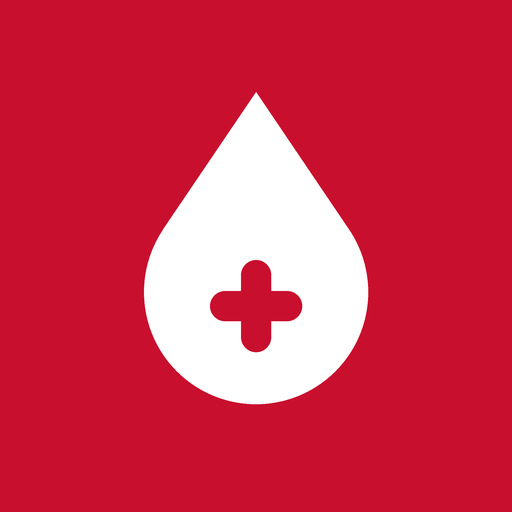
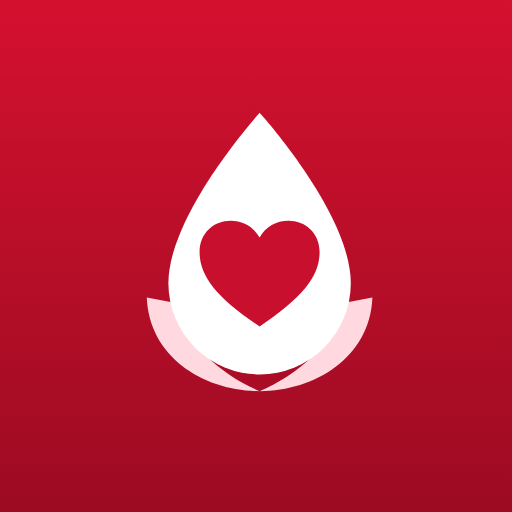
Add files via upload

diff --git a/privacy.html b/privacy.html
@@ -1,0 +1,64 @@
+<!DOCTYPE html>
+<html lang="bn"><head><meta charset="utf-8"><meta name="viewport" content="width=device-width, initial-scale=1">
+<title>গোপনীয়তা নীতি | রক্তবন্ধু বাংলাদেশ</title>
+<link rel="icon" href="icon.png">
+<link rel="stylesheet" href="https://fonts.googleapis.com/css2?family=Hind+Siliguri:wght@400;600;700&display=swap">
+<style>
+:root{--bg:#f6faf7;--cd:#fff;--tx:#17251e;--mu:#5d6f66;--rd:#c8102e;--ln:#dbe6df}
+@media (prefers-color-scheme:dark){:root{--bg:#0f1a15;--cd:#18261f;--tx:#eaf3ee;--mu:#9bb0a5;--rd:#ff7389;--ln:#2b3d34}}
+*{box-sizing:border-box}body{margin:0;background:var(--bg);color:var(--tx);font:17px/1.7 "Hind Siliguri","Noto Sans Bengali",sans-serif}
+main{max-width:760px;margin:0 auto;padding:20px 18px 60px}
+.hd{display:flex;align-items:center;gap:10px;color:var(--rd);font-weight:700;font-size:22px}.hd svg{width:38px;height:38px}
+h1{font-size:30px;line-height:1.3;margin:18px 0 4px}h2{font-size:21px;margin:30px 0 6px;color:var(--rd)}
+p,li{color:var(--tx)}.mu{color:var(--mu)}ul{padding-left:22px}li{margin:4px 0}
+.box{background:var(--cd);border:1px solid var(--ln);border-radius:14px;padding:6px 16px;margin:12px 0}
+a{color:var(--rd)}
+</style></head><body><main>
+<div class="hd"><svg viewBox="0 0 256 256" aria-hidden="true"><defs><linearGradient id="lgg" x1="0" y1="0" x2="0" y2="1"><stop offset="0" stop-color="#ef2a4a"/><stop offset="1" stop-color="#a30b24"/></linearGradient></defs><path d="M34 168C36 218 82 246 128 246C96 232 68 208 56 172Z" fill="#c8102e"/><path d="M222 168C220 218 174 246 128 246C160 232 188 208 200 172Z" fill="#c8102e"/><path d="M128 14C128 14 52 98 52 156a76 76 0 0 0 152 0C204 98 128 14 128 14Z" fill="url(#lgg)"/><path d="M128 192C92 168 78 150 78 130C78 114 90 104 104 104C114 104 123 109 128 118C133 109 142 104 152 104C166 104 178 114 178 130C178 150 164 168 128 192Z" fill="#fff"/></svg><span>রক্তবন্ধু বাংলাদেশ</span></div>
+<h1>গোপনীয়তা নীতি</h1>
+<p class="mu">সর্বশেষ হালনাগাদ: অক্টোবর ২০২৬</p>
+<p>রক্তবন্ধু বাংলাদেশ একটি বিনামূল্যের ওয়েব অ্যাপ, যেখানে রক্তদাতা খোঁজা, নিজে রক্তদাতা হিসেবে নিবন্ধন করা আর জরুরি রক্তের অনুরোধ জানানো যায়। এখানে লেখা আছে আমরা কোন তথ্য নিই, কে কী দেখতে পায় আর আপনি কীভাবে নিজের তথ্য নিয়ন্ত্রণ করবেন। আমরা বিজ্ঞাপন দেখাই না এবং আপনার তথ্য বিক্রি করি না।</p>
+
+<h2>১. আমরা কোন তথ্য নিই</h2>
+<div class="box"><ul>
+<li><b>প্রবেশের তথ্য:</b> গুগল বা ফেসবুক দিয়ে প্রবেশ করলে আপনার নাম, ইমেইল আর একটি ব্যবহারকারী আইডি আমাদের লগইন ব্যবস্থায় (Firebase Authentication) জমা থাকে। মোবাইল নম্বর দিয়ে প্রবেশ করলে নম্বরটি জমা থাকে। আপনার গুগল বা ফেসবুকের পাসওয়ার্ড আমরা কখনো পাই না।</li>
+<li><b>প্রোফাইলের তথ্য:</b> আপনার দেওয়া নাম, রক্তের গ্রুপ, বিভাগ-জেলা-উপজেলা, রক্ত দিতে ইচ্ছুক কি না, আর (আপনি চাইলে) প্রোফাইল ছবির লিংক।</li>
+<li><b>ফোন নম্বর:</b> আপনি নিবন্ধনের সময় দেন। এটা আলাদা সুরক্ষিত জায়গায় থাকে। নম্বর যাচাই করা হয় না।</li>
+<li><b>রক্তদানের তথ্য:</b> আপনার দেওয়া হাসপাতাল বা স্থানের নাম, জেলা আর তারিখ। শেষ রক্ত দেওয়ার সঠিক তারিখও এর অংশ।</li>
+<li><b>জরুরি অনুরোধ:</b> আপনি পোস্ট করলে রক্তের গ্রুপ, ব্যাগের সংখ্যা, হাসপাতাল, এলাকা, কবে লাগবে, যোগাযোগকারীর নাম ও নম্বর।</li>
+<li><b>যোগাযোগের অনুরোধ ও রিপোর্ট:</b> কেউ কাউকে যোগাযোগের অনুরোধ পাঠালে বা কোনো প্রোফাইল রিপোর্ট করলে সেই তথ্য।</li>
+</ul></div>
+<p class="mu">আমরা আপনার ডিভাইসের সঠিক অবস্থান (GPS) জমা রাখি না। মানচিত্রে এলাকার নাম লিখে খুঁজলে সেই নামটি মানচিত্র সেবায় (OpenStreetMap) যায়।</p>
+
+<h2>২. কে কী দেখতে পায়</h2>
+<div class="box"><ul>
+<li><b>শুধু প্রবেশ করা ব্যবহারকারীরা</b> দাতার তালিকা দেখতে পান: নাম, রক্তের গ্রুপ, উপজেলা ও জেলা, রক্ত দিতে প্রস্তুত কি না, মোট রক্তদানের সংখ্যা আর দানস্থলের সংখ্যা। আপনি অনুমতি দিলে ছবিও দেখা যায়।</li>
+<li><b>ফোন নম্বর:</b> আপনি সেটিংয়ে "প্রবেশ করা সবাইকে নম্বর দেখান" চালু করলে প্রবেশ করা সবাই দেখতে পায়। বন্ধ থাকলে কেউ অনুরোধ পাঠালে আপনি অনুমতি দিলে তবেই ওই ব্যক্তি দেখে।</li>
+<li><b>শেষ রক্ত দেওয়ার তারিখ:</b> সঠিক তারিখ শুধু আপনি দেখেন। অন্যরা শুধু আনুমানিক "আর কত দিন পর প্রস্তুত" দেখে।</li>
+<li><b>হাসপাতালের নাম ও রক্তদানের তারিখ:</b> শুধু আপনি দেখেন (আর প্রয়োজনে অ্যাডমিন)।</li>
+<li><b>জরুরি অনুরোধ:</b> পোস্টের সময় সম্মতি দিলে অনুরোধ, নাম ও নম্বরসহ প্রবেশ ছাড়াও সবাই দেখতে পায়।</li>
+<li><b>ইমেইল:</b> শুধু আপনি আর অ্যাডমিন দেখেন।</li>
+</ul></div>
+
+<h2>৩. কীভাবে ব্যবহার করি</h2>
+<ul><li>দাতা খোঁজা ও জরুরি অনুরোধ মেলাতে।</li><li>আপনার অনুমতি অনুযায়ী যোগাযোগের অনুরোধ দেখাতে ও নম্বর শেয়ার করতে।</li><li>ভুয়া বা সন্দেহজনক প্রোফাইল যাচাই করে প্রয়োজনে বন্ধ করতে।</li></ul>
+
+<h2>৪. বাইরের সেবা</h2>
+<p>অ্যাপ চালাতে আমরা এই সেবাগুলো ব্যবহার করি। এদের মাধ্যমে আপনার IP ঠিকানা বা ডিভাইসের সাধারণ তথ্য ওই সেবাগুলোর কাছে যেতে পারে।</p>
+<ul><li>Google Firebase: লগইন ও ডাটাবেস।</li><li>Google ও Facebook: প্রবেশের জন্য (আপনি বেছে নিলে)।</li><li>OpenStreetMap: মানচিত্র, হাসপাতাল ও ব্লাড ব্যাংক খোঁজা।</li><li>Google Fonts ও cdnjs: অক্ষর ও মানচিত্রের কোড।</li></ul>
+
+<h2 id="deletion">৫. আপনার তথ্য নিয়ন্ত্রণ ও মুছে ফেলা</h2>
+<ul><li>নিজের তথ্য বদলাতে: <b>প্রোফাইল → প্রোফাইল সম্পাদনা</b>।</li><li>নম্বর বা প্রোফাইল লুকাতে: <b>প্রোফাইল → নিরাপত্তা ও গোপনীয়তা</b>।</li><li>সব তথ্য মুছতে: <b>প্রোফাইল → অ্যাকাউন্ট মুছে ফেলা</b>। এতে আপনার প্রোফাইল, ফোন নম্বর, রক্তদানের তালিকা আর লগইনের রেকর্ড মুছে যায় এবং ফেরত আনা যায় না।</li><li>আপনার পোস্ট করা জরুরি অনুরোধ "পূরণ হয়েছে" চেপে বন্ধ করলে সেটা আর তালিকায় দেখা যায় না।</li><li>ফেসবুক দিয়ে প্রবেশ করে থাকলে চাইলে ফেসবুকের <b>সেটিংস → অ্যাপস ও ওয়েবসাইট</b> থেকে রক্তবন্ধুকে সরিয়ে দিতে পারেন। অ্যাপে প্রবেশ করতে না পারলে "সহায়তা ও রিপোর্ট" পাতার মাধ্যমে জানান।</li></ul>
+
+<h2>৬. নিরাপত্তা ও সীমা</h2>
+<ul><li>কোনো অনলাইন ব্যবস্থাই শতভাগ নিরাপদ নয়। আমরা ডাটাবেসের নিয়ম দিয়ে অন্যের তথ্য দেখা আর বদলানো আটকে রাখি, কিন্তু ঝুঁকি পুরোপুরি শূন্য হয় না।</li><li>নিবন্ধনের সময় দেওয়া নম্বর যাচাই করা হয় না। তাই অন্য কারো নম্বর দেবেন না।</li><li>রক্তের জন্য কেউ টাকা চাইলে দেবেন না এবং ওই প্রোফাইল রিপোর্ট করুন।</li><li>এই অ্যাপ চিকিৎসা সেবা বা হাসপাতাল, ব্লাড ব্যাংকের বিকল্প নয়। জরুরিতে আগে হাসপাতাল বা ব্লাড ব্যাংকে যোগাযোগ করুন। হাসপাতাল ও ব্লাড ব্যাংকের তথ্য খোলা মানচিত্র থেকে আসে, ভুল বা পুরনো হতে পারে।</li></ul>
+
+<h2>৭. বয়স</h2>
+<p>রক্তদাতা হিসেবে নিবন্ধনের জন্য আপনার বয়স কমপক্ষে ১৮ বছর হতে হবে।</p>
+
+<h2>৮. নীতি বদলালে</h2>
+<p>এই নীতি বদলালে এই পাতায় নতুন তারিখসহ জানানো হবে।</p>
+
+<h2>৯. যোগাযোগ</h2>
+<p>প্রশ্ন বা অভিযোগ থাকলে অ্যাপের <b>প্রোফাইল → সহায়তা ও রিপোর্ট</b> পাতা দেখুন।</p>
+</main></body></html>

diff --git a/index.html b/index.html
@@ -84,7 +84,7 @@ ul{margin:6px 0;padding-left:20px}
 <body>
 <div class="w">
 <header class="hd"><button id="bk" class="sm" data-act="bk" hidden>← ফিরুন</button>
-<div class="lg"><svg viewBox="0 0 32 32" aria-hidden="true"><path d="M16 2C16 2 6 14 6 20a10 10 0 0020 0C26 14 16 2 16 2z" fill="var(--rd)"/><path d="M16 14v8M12 18h8" stroke="#fff" stroke-width="2.4" stroke-linecap="round"/></svg><span>রক্তবন্ধু বাংলাদেশ</span></div>
+<div class="lg"><svg viewBox="0 0 256 256" aria-hidden="true"><defs><linearGradient id="lgg" x1="0" y1="0" x2="0" y2="1"><stop offset="0" stop-color="#ef2a4a"/><stop offset="1" stop-color="#a30b24"/></linearGradient></defs><path d="M34 168C36 218 82 246 128 246C96 232 68 208 56 172Z" fill="#c8102e"/><path d="M222 168C220 218 174 246 128 246C160 232 188 208 200 172Z" fill="#c8102e"/><path d="M128 14C128 14 52 98 52 156a76 76 0 0 0 152 0C204 98 128 14 128 14Z" fill="url(#lgg)"/><path d="M128 192C92 168 78 150 78 130C78 114 90 104 104 104C114 104 123 109 128 118C133 109 142 104 152 104C166 104 178 114 178 130C178 150 164 168 128 192Z" fill="#fff"/></svg><span>রক্তবন্ধু বাংলাদেশ</span></div>
 <button id="hl" class="sm" data-go="login">প্রবেশ</button></header>
 <main id="app"></main>
 </div>
@@ -169,7 +169,7 @@ return`${x.ph?`<img src="${E(x.ph)}" alt="" referrerpolicy="no-referrer" style="
 ${x.demo?'<p class="note">এটি ডেমো প্রোফাইল, বাস্তব মানুষ নয়।</p>':''}${ct}
 <details class="box"><summary>এই প্রোফাইল রিপোর্ট করুন</summary><form id="f-rep" data-id="${x.id}"><label for="rr">কারণ</label><select id="rr" required>${o(WHY,'','বেছে নিন')}</select><label for="rt">বিস্তারিত (ঐচ্ছিক)</label><textarea id="rt"></textarea><button class="btn o" type="submit">রিপোর্ট পাঠান</button></form></details>`}
 const register=async()=>{if(!sess())return login(true);if(await DB.get('donors',sess()))return me();return`<h2>দাতা হিসেবে নিবন্ধন</h2><p class="mu">ফোন নম্বর ডিফল্টভাবে লুকানো থাকে, আপনি চাইলে নিচের টিক দিয়ে দেখাতে পারেন। নম্বর যাচাই করা হয় না, তাই সঠিক নম্বর দিন।</p><form id="f-reg">${pf({p:(auth.currentUser.phoneNumber||'').replace('+88','')})}<label class="ck"><input id="fsp" type="checkbox"> প্রবেশ করা সবাইকে আমার ফোন নম্বর দেখান (জরুরিতে সরাসরি কল পাবেন, পরে সেটিং থেকে বদলাতে পারবেন)</label><label class="ck"><input id="fc" type="checkbox" required> আমি জানি আমার গ্রুপ ও এলাকা (উপজেলা পর্যন্ত) সবার সার্চে দেখা যাবে।</label><button class="btn" type="submit">নিবন্ধন করুন</button></form>`};
-const login=async(reg)=>`<h2>${reg?'নতুন নিবন্ধন':'প্রবেশ করুন'}</h2><button class="btn big" data-act="google">Google দিয়ে চালিয়ে যান</button><button class="btn big" style="background:#1877f2" data-act="facebook">Facebook দিয়ে চালিয়ে যান</button><details class="box" style="margin-top:22px"><summary style="color:var(--mu);font-weight:400">মোবাইল নম্বর দিয়ে প্রবেশ (অ্যাডমিন)</summary><form id="f-login"><label for="lp">মোবাইল নম্বর</label><input id="lp" type="tel" inputmode="numeric" placeholder="01712345678" required><button class="btn" type="submit" id="lb">কোড পাঠান</button></form><form id="f-otp" hidden><label for="lo">SMS এ আসা ৬ সংখ্যার কোড</label><input id="lo" inputmode="numeric" maxlength="6" required><button class="btn" type="submit">যাচাই করুন</button></form></details><p class="note">প্রথমবার হলে প্রবেশের পর নিবন্ধনের ফর্ম আসবে। আপনার ফোন নম্বর কখনো সার্চে বা প্রোফাইলে প্রকাশ্য হয় না।</p>`;
+const login=async(reg)=>`<h2>${reg?'নতুন নিবন্ধন':'প্রবেশ করুন'}</h2><button class="btn big" data-act="google">Google দিয়ে চালিয়ে যান</button><button class="btn big" style="background:#1877f2" data-act="facebook">Facebook দিয়ে চালিয়ে যান</button><details class="box" style="margin-top:22px"><summary style="color:var(--mu);font-weight:400">মোবাইল নম্বর দিয়ে প্রবেশ (অ্যাডমিন)</summary><form id="f-login"><label for="lp">মোবাইল নম্বর</label><input id="lp" type="tel" inputmode="numeric" placeholder="01712345678" required><button class="btn" type="submit" id="lb">কোড পাঠান</button></form><form id="f-otp" hidden><label for="lo">SMS এ আসা ৬ সংখ্যার কোড</label><input id="lo" inputmode="numeric" maxlength="6" required><button class="btn" type="submit">যাচাই করুন</button></form></details><p class="note">প্রথমবার হলে প্রবেশের পর নিবন্ধনের ফর্ম আসবে। আপনার ফোন নম্বর আপনার অনুমতি ছাড়া কেউ দেখতে পায় না। <a href="privacy.html" target="_blank" rel="noopener" style="color:inherit">গোপনীয়তা নীতি</a></p>`;
 const request=async()=>{const me=sess(),A=await DB.all('requests'),L=A.filter(x=>x.open).sort((a,b)=>URG.indexOf(a.urg)-URG.indexOf(b.urg)||b.ts-a.ts);
 return`<h2>জরুরি রক্তের অনুরোধ</h2>
 <details class="box"><summary>নতুন অনুরোধ পোস্ট করুন</summary><form id="f-req"><div class="row"><div><label for="qg">রক্তের গ্রুপ</label><select id="qg" required>${o(G,'','বেছে নিন')}</select></div><div><label for="qb">কত ব্যাগ</label><input id="qb" type="number" min="1" max="20" value="1" required></div></div>${loc('q')}
@@ -198,7 +198,7 @@ async function pn(){const c=await ctx();if(!c)return register();const R=(await D
 return`<h2>নোটিফিকেশন</h2><div class="box"><h3>যোগাযোগের অনুরোধ</h3>${R.length?R.map(r=>`<div class="kv"><span>${E(r.fromName)}</span><span><button class="sm" data-act="share" data-id="${r.id}">নম্বর দিন</button> <button class="sm" data-act="deny" data-id="${r.id}">না</button></span></div>`).join(''):'<p class="mu">কোনো নতুন অনুরোধ নেই।</p>'}</div><p class="note">অ্যাপ বন্ধ থাকলে নোটিফিকেশন আসার ব্যবস্থা এখনো নেই। মাঝে মাঝে অ্যাপ খুলে এখানে দেখুন।</p>`}
 async function pd(){const c=await ctx();if(!c)return register();const DL=(await DB.q('donations','uid',c.u)).sort((a,b)=>b.dt.localeCompare(a.dt));
 return`<h2>আমার রক্তদানের তথ্য</h2><button class="btn g" data-act="card">প্রোফাইল কার্ড শেয়ার করুন</button>${donBox(c.x,DL)}`}
-const hlp=async()=>`<h2>সহায়তা ও রিপোর্ট</h2><div class="box"><h3>সন্দেহজনক প্রোফাইল</h3><p>কেউ টাকা চাইলে, বিরক্ত করলে বা ভুয়া তথ্য দিলে তার প্রোফাইল খুলে <b>এই প্রোফাইল রিপোর্ট করুন</b> চাপুন। অ্যাডমিন দেখবেন।</p></div><div class="box"><h3>নিরাপদে থাকতে</h3><ul><li>রক্তের জন্য কাউকে টাকা দেবেন না।</li><li>অচেনা কাউকে আপনার ঠিকানা বা ব্যক্তিগত তথ্য দেবেন না।</li><li>জরুরিতে আগে হাসপাতাল বা ব্লাড ব্যাংকে যোগাযোগ করুন।</li></ul></div><a class="btn o" href="#" data-go="search">দাতার তালিকা</a>`;
+const hlp=async()=>`<h2>সহায়তা ও রিপোর্ট</h2><div class="box"><h3>সন্দেহজনক প্রোফাইল</h3><p>কেউ টাকা চাইলে, বিরক্ত করলে বা ভুয়া তথ্য দিলে তার প্রোফাইল খুলে <b>এই প্রোফাইল রিপোর্ট করুন</b> চাপুন। অ্যাডমিন দেখবেন।</p></div><div class="box"><h3>নিরাপদে থাকতে</h3><ul><li>রক্তের জন্য কাউকে টাকা দেবেন না।</li><li>অচেনা কাউকে আপনার ঠিকানা বা ব্যক্তিগত তথ্য দেবেন না।</li><li>জরুরিতে আগে হাসপাতাল বা ব্লাড ব্যাংকে যোগাযোগ করুন।</li></ul></div><a class="btn o" href="#" data-go="search">দাতার তালিকা</a><a class="btn o" href="privacy.html" target="_blank" rel="noopener">গোপনীয়তা নীতি</a>`;
 const px=async()=>`<h2>অ্যাকাউন্ট মুছে ফেলা</h2><div class="box"><p>অ্যাকাউন্ট মুছলে আপনার প্রোফাইল, ফোন নম্বর, রক্তদানের তালিকা আর লগইনের রেকর্ড মুছে যাবে, ফেরত আনা যাবে না। নিরাপত্তার জন্য গুগল বা ফেসবুকে আবার একবার প্রবেশ করতে বলা হতে পারে।</p><button class="btn" style="background:#8e0e24" data-act="delacct">অ্যাকাউন্ট মুছুন</button></div>`;
 async function admin(){if(!isAdm())return`<h2>অ্যাডমিন</h2><p class="mu">শুধু অ্যাডমিনের জন্য।</p>`;
 const P=await DB.all('reps'),D=await DB.all('donors'),nm=id=>(D.find(x=>x.id===id)||{n:'(মুছে গেছে)'}).n,S=D.filter(x=>x.sus);
@@ -215,7 +215,7 @@ const fit=(t,w,z,wt)=>{g.font=F(wt,z);while(g.measureText(t).width>w&&z>24){z-=2
 const rr=(a,b,w,h,r)=>{g.beginPath();g.moveTo(a+r,b);g.arcTo(a+w,b,a+w,b+h,r);g.arcTo(a+w,b+h,a,b+h,r);g.arcTo(a,b+h,a,b,r);g.arcTo(a,b,a+w,b,r);g.closePath()};
 g.fillStyle='#fff';g.fillRect(0,0,1080,1350);
 g.fillStyle='#c8102e';g.fillRect(0,0,1080,170);
-g.save();g.translate(52,30);g.scale(3.8,3.8);g.fillStyle='#fff';g.fill(new Path2D('M16 2C16 2 6 14 6 20a10 10 0 0020 0C26 14 16 2 16 2z'));g.strokeStyle='#c8102e';g.lineWidth=2.4;g.lineCap='round';g.beginPath();g.moveTo(16,14);g.lineTo(16,22);g.moveTo(12,18);g.lineTo(20,18);g.stroke();g.restore();
+g.save();g.translate(46,18);g.scale(0.52,0.52);g.fillStyle='#fff';g.fill(new Path2D('M128 14C128 14 52 98 52 156a76 76 0 0 0 152 0C204 98 128 14 128 14Z'));g.fillStyle='#c8102e';g.fill(new Path2D('M128 192C92 168 78 150 78 130C78 114 90 104 104 104C114 104 123 109 128 118C133 109 142 104 152 104C166 104 178 114 178 130C178 150 164 168 128 192Z'));g.restore();
 g.fillStyle='#fff';g.textAlign='left';g.textBaseline='alphabetic';g.font=F(700,58);g.fillText('রক্তবন্ধু বাংলাদেশ',196,108);
 g.save();g.beginPath();g.arc(540,370,125,0,7);g.closePath();g.clip();
 const im=x.ph?await loadImg(x.ph):null;
